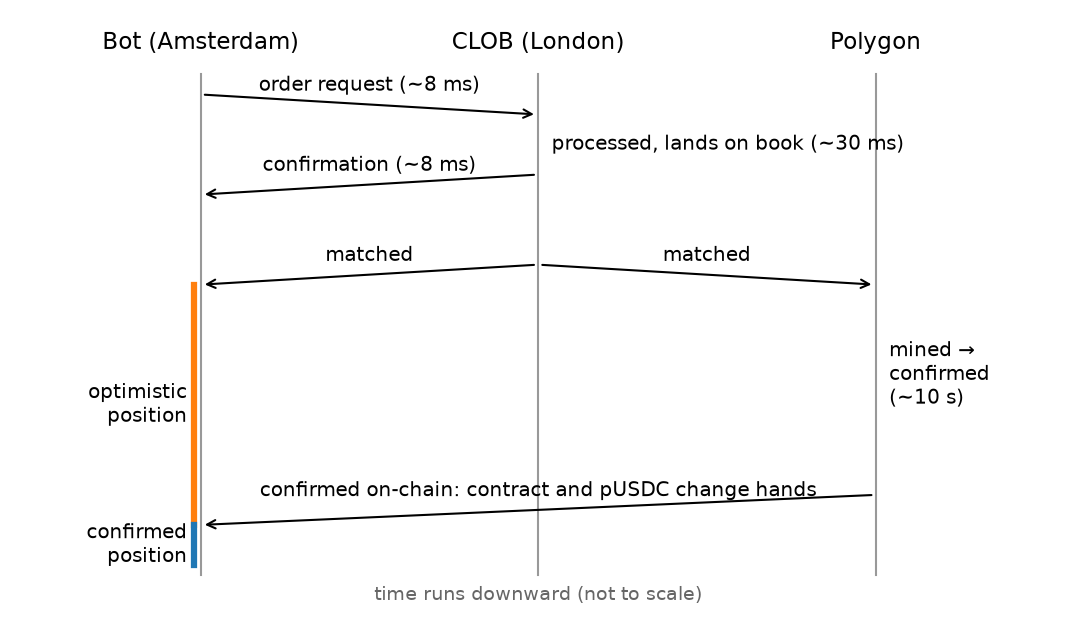
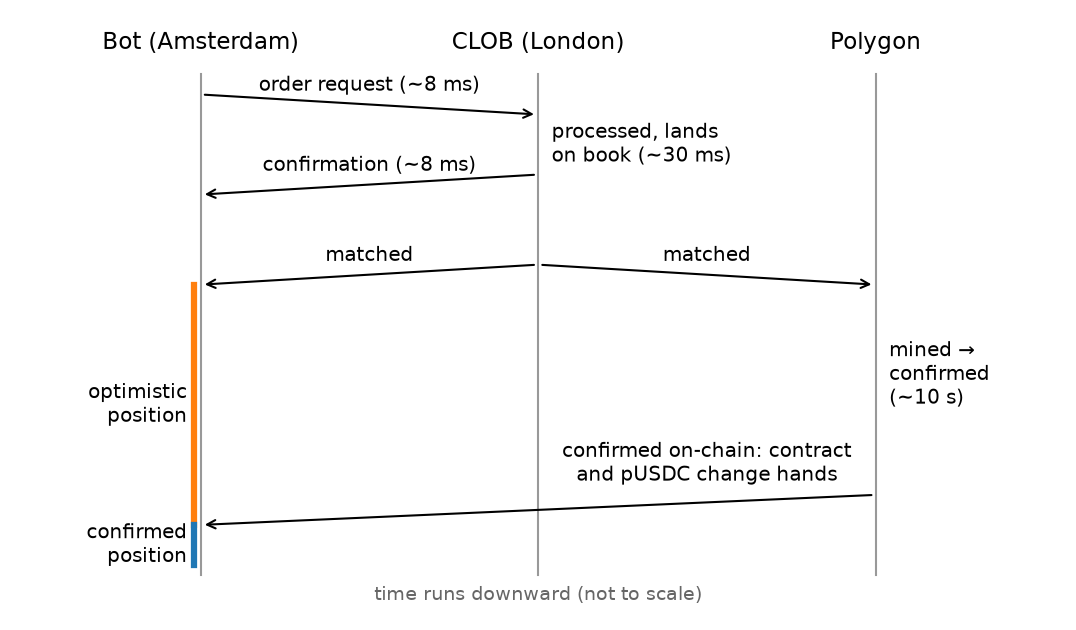
Plain Arial page; add SOC policy plots and SHAP dependence matrix
Drop all styling except bold titles. Add the backward-induction policy
plots (view_policy.py, rendered statically) and the SHAP value vs
feature value matrix for the post-fix model. The live-run chart now
covers the 200-window stretch, with rebates noted in the caption.

Changed region(s): [[0.2454, 0.6937, 0.7974, 0.8143], [0.4907, 0.181, 0.8587, 0.2714]]

diff --git a/market-making/index.html b/market-making/index.html
@@ -4,215 +4,23 @@
 <meta charset="UTF-8">
 <meta name="viewport" content="width=device-width, initial-scale=1.0">
 <title>Building a Market-Making Bot</title>
-<meta name="description" content="The journey of building a market-making bot for Polymarket prediction markets.">
 <link rel="stylesheet" href="https://cdn.jsdelivr.net/npm/katex@0.16.11/dist/katex.min.css">
 <script defer src="https://cdn.jsdelivr.net/npm/katex@0.16.11/dist/katex.min.js"></script>
 <style>
-:root {
-  color-scheme: light;
-  --page: #fcfcfb;
-  --surface: #fcfcfb;
-  --raised: #f4f3ef;
-  --ink: #0b0b0b;
-  --ink-2: #52514e;
-  --muted: #898781;
-  --grid: #e1e0d9;
-  --axis: #c3c2b7;
-  --border: rgba(11, 11, 11, 0.10);
-  --link: #1c5cab;
-  --s1: #2a78d6;
-  --s2: #eb6834;
-  --s3: #1baf7a;
-  --s4: #eda100;
-  --s7: #6250d6;
-  --wash1: rgba(42, 120, 214, 0.10);
-  --wash2: rgba(235, 104, 52, 0.10);
-  --good: #0ca30c;
-  --critical: #d03b3b;
-  --node: #f0efec;
-  --leaf-bid: rgba(42, 120, 214, 0.14);
-  --leaf-ask: rgba(235, 104, 52, 0.14);
-  --leaf-both: rgba(27, 175, 122, 0.16);
-  --leaf-flat: rgba(137, 135, 129, 0.16);
-  --div-b2: #1c5cab; --div-b1: #86b6ef; --div-0: #d6d5cf; --div-r1: #f0a09e; --div-r2: #c9302f; --div-na: #f0efec;
-}
-@media (prefers-color-scheme: dark) {
-  :root:where(:not([data-theme="light"])) {
-    color-scheme: dark;
-    --page: #121211;
-    --surface: #1a1a19;
-    --raised: #222220;
-    --ink: #f0efec;
-    --ink-2: #c3c2b7;
-    --muted: #898781;
-    --grid: #2c2c2a;
-    --axis: #383835;
-    --border: rgba(255, 255, 255, 0.10);
-    --link: #86b6ef;
-    --s1: #3987e5;
-    --s2: #d95926;
-    --s3: #199e70;
-    --s4: #c98500;
-    --s7: #9085e9;
-    --wash1: rgba(57, 135, 229, 0.14);
-    --wash2: rgba(217, 89, 38, 0.14);
-    --node: #2c2c2a;
-    --leaf-bid: rgba(57, 135, 229, 0.22);
-    --leaf-ask: rgba(217, 89, 38, 0.22);
-    --leaf-both: rgba(25, 158, 112, 0.24);
-    --leaf-flat: rgba(137, 135, 129, 0.22);
-    --div-b2: #6da7ec; --div-b1: #24568f; --div-0: #45443f; --div-r1: #8a3434; --div-r2: #e66767; --div-na: #2c2c2a;
-  }
-}
-:root[data-theme="dark"] {
-  color-scheme: dark;
-  --page: #121211; --surface: #1a1a19; --raised: #222220; --ink: #f0efec; --ink-2: #c3c2b7;
-  --muted: #898781; --grid: #2c2c2a; --axis: #383835; --border: rgba(255, 255, 255, 0.10);
-  --link: #86b6ef; --s1: #3987e5; --s2: #d95926; --s3: #199e70; --s4: #c98500; --s7: #9085e9;
-  --wash1: rgba(57, 135, 229, 0.14); --wash2: rgba(217, 89, 38, 0.14); --node: #2c2c2a;
-  --leaf-bid: rgba(57, 135, 229, 0.22); --leaf-ask: rgba(217, 89, 38, 0.22);
-  --leaf-both: rgba(25, 158, 112, 0.24); --leaf-flat: rgba(137, 135, 129, 0.22);
-  --div-b2: #6da7ec; --div-b1: #24568f; --div-0: #45443f; --div-r1: #8a3434; --div-r2: #e66767; --div-na: #2c2c2a;
-}
-
-* { box-sizing: border-box; }
-html { -webkit-text-size-adjust: 100%; }
-body {
-  margin: 0;
-  background: var(--page);
-  color: var(--ink);
-  font: 18px/1.65 Charter, "Bitstream Charter", "Sitka Text", Cambria, Georgia, serif;
-}
-main { max-width: 680px; margin: 0 auto; padding: 32px 16px 96px; }
-.home { font: 14px/1.4 system-ui, -apple-system, "Segoe UI", sans-serif; margin-bottom: 40px; }
-.home a { color: var(--ink-2); text-decoration: none; }
-.home a:hover { color: var(--ink); text-decoration: underline; }
-a { color: var(--link); }
-h2 {
-  font: 600 1.18rem/1.3 system-ui, -apple-system, "Segoe UI", sans-serif;
-  margin: 2.6em 0 0.6em;
-  scroll-margin-top: 16px;
-}
-p { margin: 0 0 1em; }
-p.indent { text-indent: 2em; }
-p.shout { font-size: 1.35rem; font-weight: 600; margin-top: 2em; letter-spacing: 0.01em; overflow-wrap: anywhere; }
-.outline {
-  font: 15px/1.5 system-ui, -apple-system, "Segoe UI", sans-serif;
-  background: var(--raised);
-  border-radius: 8px;
-  padding: 14px 18px 10px;
-  color: var(--ink-2);
-}
-.outline p { margin: 0 0 4px; color: var(--ink); font-weight: 600; }
-.outline ul { margin: 0; padding-left: 1.2em; list-style: "–  "; }
-.outline ul ul { margin: 2px 0 4px; }
-.outline li { margin: 1px 0; }
+body { margin: 0 auto; max-width: 720px; padding: 16px; background: #fff; color: #000; font-family: Arial, Helvetica, sans-serif; font-size: 16px; line-height: 1.5; }
+h2, h3 { font-size: 1em; font-weight: bold; margin: 2em 0 0.5em; }
+.outline p { margin: 0; }
+.outline ul { margin: 0; }
 .outline a { color: inherit; text-decoration: none; }
-.outline a:hover { color: var(--ink); text-decoration: underline; }
-code, pre { font-family: ui-monospace, SFMono-Regular, Menlo, Consolas, monospace; }
-pre.tree-string {
-  font-size: 13px; line-height: 1.55;
-  background: var(--raised); border-radius: 8px; padding: 14px 16px;
-  white-space: pre-wrap; overflow-wrap: anywhere; margin: 0.4em 0 1.2em;
-}
-pre.code {
-  font-size: 13px; line-height: 1.5;
-  background: var(--raised); border-radius: 8px; padding: 14px 16px;
-  overflow-x: auto; margin: 0.4em 0 1.2em;
-}
-
-/* Figures may run wider than the text column on large screens. */
-figure { margin: 2em 0 2.2em; }
-figure.wide { margin-left: calc(50% - min(48vw, 440px)); margin-right: calc(50% - min(48vw, 440px)); }
-figcaption {
-  font: 14px/1.5 system-ui, -apple-system, "Segoe UI", sans-serif;
-  color: var(--ink-2);
-  margin-top: 10px;
-}
-figcaption b { color: var(--ink); font-weight: 600; }
-.fig-img { display: block; max-width: 100%; height: auto; margin: 0 auto 8px; background: #fff; }
-.todo-box { border: 2px dashed var(--critical); color: var(--critical); padding: 24px; font: 14px system-ui, sans-serif; }
-
-/* Charts */
-.chart { position: relative; font: 12px/1.3 system-ui, -apple-system, "Segoe UI", sans-serif; color: var(--ink-2); }
-.chart svg { display: block; width: 100%; height: auto; overflow: visible; }
-.chart .title { font: 600 14px/1.35 system-ui, -apple-system, "Segoe UI", sans-serif; color: var(--ink); margin: 0 0 2px; }
-.chart .sub { font-size: 13px; color: var(--ink-2); margin: 0 0 8px; }
-.chart .legend { display: flex; flex-wrap: wrap; gap: 4px 16px; margin: 0 0 6px; font-size: 13px; color: var(--ink-2); }
-.chart .legend span { display: inline-flex; align-items: center; gap: 6px; }
-.chart .legend i { display: inline-block; width: 14px; height: 2px; border-radius: 1px; }
-.chart .legend i.box { width: 10px; height: 10px; border-radius: 2px; }
-.chart .tick text, .chart text.tick { fill: var(--muted); font-size: 11px; font-variant-numeric: tabular-nums; }
-.chart .axis-label { fill: var(--muted); font-size: 11px; }
-.chart .grid line { stroke: var(--grid); stroke-width: 1; shape-rendering: crispEdges; }
-.chart .baseline { stroke: var(--axis); stroke-width: 1; shape-rendering: crispEdges; }
-.chart .endlabel { fill: var(--ink-2); font-size: 12px; }
-.chart .note { fill: var(--muted); font-size: 11px; }
-.chart .hair { stroke: var(--muted); stroke-width: 1; }
-.chart .tip {
-  position: absolute; pointer-events: none; z-index: 2;
-  background: var(--surface); color: var(--ink);
-  border: 1px solid var(--border); border-radius: 6px;
-  box-shadow: 0 4px 14px rgba(0, 0, 0, 0.12);
-  padding: 7px 9px; font-size: 12px; line-height: 1.45; white-space: nowrap;
-  opacity: 0; transition: opacity 80ms;
-}
-.chart .tip .h { color: var(--ink-2); margin-bottom: 2px; }
-.chart .tip .r { display: flex; align-items: center; gap: 7px; }
-.chart .tip .r i { width: 12px; height: 2px; border-radius: 1px; display: inline-block; }
-.chart .tip .r b { font-weight: 600; font-variant-numeric: tabular-nums; }
-.chart .tip .r span { color: var(--ink-2); }
-.chart rect.bar:hover, .chart rect.bar:focus { opacity: 0.8; outline: none; }
-details.data { font: 13px/1.4 system-ui, -apple-system, "Segoe UI", sans-serif; color: var(--ink-2); margin-top: 6px; }
-details.data summary { cursor: pointer; color: var(--muted); width: max-content; }
-details.data .wrap { max-height: 280px; overflow: auto; margin-top: 6px; border: 1px solid var(--border); border-radius: 6px; }
-details.data table { border-collapse: collapse; width: 100%; font-variant-numeric: tabular-nums; }
-details.data th, details.data td { text-align: right; padding: 3px 10px; border-bottom: 1px solid var(--grid); }
-details.data th:first-child, details.data td:first-child { text-align: left; }
-details.data th { position: sticky; top: 0; background: var(--raised); color: var(--ink); font-weight: 600; }
-.panels { display: grid; grid-template-columns: repeat(auto-fit, minmax(260px, 1fr)); gap: 20px 28px; }
-
-/* Diagrams and trees */
-svg.diagram { display: block; width: 100%; height: auto; font-family: system-ui, -apple-system, "Segoe UI", sans-serif; }
-svg.diagram .ink { fill: var(--ink); }
-svg.diagram .ink2 { fill: var(--ink-2); }
-svg.diagram .muted { fill: var(--muted); }
-svg.diagram .edge { stroke: var(--axis); stroke-width: 1.5; fill: none; }
-svg.diagram .edge-t { stroke: var(--s3); stroke-width: 1.5; fill: none; }
-svg.diagram .edge-f { stroke: var(--muted); stroke-width: 1.5; fill: none; }
-svg.diagram .node { fill: var(--node); }
-svg.diagram .box { fill: var(--surface); stroke: var(--axis); stroke-width: 1; }
-svg.diagram .leaf-BID { fill: var(--leaf-bid); }
-svg.diagram .leaf-ASK { fill: var(--leaf-ask); }
-svg.diagram .leaf-BOTH { fill: var(--leaf-both); }
-svg.diagram .leaf-FLAT, svg.diagram .leaf-WAIT { fill: var(--leaf-flat); }
-svg.diagram .s1 { stroke: var(--s1); } svg.diagram .s2 { stroke: var(--s2); } svg.diagram .s3 { stroke: var(--s3); }
-svg.diagram .f1 { fill: var(--s1); } svg.diagram .f2 { fill: var(--s2); } svg.diagram .f3 { fill: var(--s3); }
-.tree-scroll { max-width: 100%; overflow-x: auto; -webkit-overflow-scrolling: touch; }
-.trees { display: grid; grid-template-columns: 1fr; gap: 28px; justify-items: center; }
-.trees > div { width: 100%; max-width: 640px; min-width: 0; }
-.panels > * { min-width: 0; }
-.trees .t-head { font: 600 13px/1.35 system-ui, -apple-system, "Segoe UI", sans-serif; color: var(--ink); margin-bottom: 4px; }
-.trees .t-sub { font: 12px/1.35 system-ui, -apple-system, "Segoe UI", sans-serif; color: var(--ink-2); margin-bottom: 6px; font-variant-numeric: tabular-nums; }
-.eq { overflow-x: auto; overflow-y: hidden; margin: 0.6em 0; }
-.eq-block { background: var(--raised); border-radius: 8px; padding: 14px 18px 8px; margin: 1em 0 1.6em; }
-.eq-block p, .eq-block li { font: 15px/1.55 system-ui, -apple-system, "Segoe UI", sans-serif; color: var(--ink-2); }
-.eq-block ul { padding-left: 1.1em; margin: 0 0 0.8em; }
-.experiments { margin: 1.2em 0; }
-.experiments ul { padding-left: 1.2em; }
-.experiments li { margin: 0 0 0.55em; }
-.experiments h3 { font: 600 1rem/1.35 system-ui, -apple-system, "Segoe UI", sans-serif; margin: 1.8em 0 0.4em; }
-footer { margin-top: 64px; font: 13px/1.5 system-ui, -apple-system, "Segoe UI", sans-serif; color: var(--muted); }
-@media (max-width: 560px) {
-  body { font-size: 17px; }
-  figure.wide { margin-left: 0; margin-right: 0; }
-}
+p.indent { text-indent: 2em; }
+pre { white-space: pre-wrap; overflow-wrap: anywhere; font-size: 13px; }
+figure { margin: 1.5em 0; }
+figure img { display: block; max-width: 100%; height: auto; margin: 0 auto 0.5em; }
+.eq { overflow-x: auto; overflow-y: hidden; }
 </style>
 </head>
 <body>
-<main>
-<nav class="home"><a href="/">← Joseph Iannone</a></nav>
-<article>
+<nav class="home"><a href="/">Joseph Iannone</a></nav>
 <nav class="outline" aria-label="Contents"><p>History:</p><ul>
 <li><a href="#market-making-theory">Market-Making Theory; AV, GLFT</a></li>
 <li><a href="#the-life-of-an-order">The life of an order</a></li>
@@ -275,6 +83,13 @@ footer { margin-top: 64px; font: 13px/1.5 system-ui, -apple-system, "Segoe UI", 
 
 <p>Following the literature for market-making strategies for discrete markets, quickly brings us to an area of mathematics called Stochastic Optimal Control. This tries to answer how to make optimal decisions under unpredictable conditions. Basically, this will output an action based on a handful of inputs (external factors like order intensities and spread, and internal factors like current position). The external factors are modeled as a markov process, where one combination of market states has a given probability of jumping to another combination of market states. Given these probabilities, and the current position, the <em>potential future value</em> of each decision can be calculated through a process called backward induction. In this case, a decision is which orders should be placed (buy or sell) and how many ticks away from the mid price they should be placed. If there’s a low rate of buy market orders coming into the clob, and the position is very positive, the best decision would most likely be to place a sell order very close to the mid, as there is much urgency to offload inventory in order to keep the bot delta neutral.</p>
 
+<figure>
+<img class="fig-img" src="figs/soc_policy.png" alt="Stochastic optimal control policy" loading="lazy">
+<img class="fig-img" src="figs/soc_policy_drift.png" alt="Stochastic optimal control policy" loading="lazy">
+<figcaption>Optimal policy from backward induction at the start of the session, by inventory and alpha state (0 is the most bearish of the seven states, 6 the most bullish). Top: the policy notebook's model. Bottom: the version with the alpha drift term (inventory penalty 0.05, chosen for illustration because the tuned value was not saved).</figcaption>
+</figure>
+
+
 <h2 id="incorporating-alpha">Incorporating Alpha </h2>
 
 <p>Exclusiving trying to capture the spread without any type of directional signal will never be profitable in a prediction market because you will always get filled by market participants who are working off of more information than you. This information could be related to the fair value of the asset for example. Maybe they have a fiber optic cable that pumps information about the Binance bitcoin market in Tokyo to a cloud server in Amsterdam (doing this they’ll be able to get information 60ms stale compared to 120ms stale using normal internet infrastructure). They’ll be able to calculate the exact fair value and update their quotes 8ms later, or they might have co-location with polymarkets clob (which is allowed now through their know-your-customer policy) allowing them to react to the state of the market in under a couple milliseconds. So to have the best chance here, we can assume that the clob is updated as quickly as information becomes available, this means that it will be best if we don’t even look at any external sources of information. For example if we worked off of the binance data only, we would be 60ms behind the fastest market makers (since they are reacting to their information in 60ms compared to our 120ms). If we worked off of the clob exclusively we can react within 16ms (8ms to our server and 8ms to the clob, plus any lag internal to polymarket’s own infrastructure). So, we need to create a model that takes in features of the market and predicts where it will go soon after.</p>
@@ -282,8 +97,9 @@ footer { margin-top: 64px; font: 13px/1.5 system-ui, -apple-system, "Segoe UI", 
 <p class="indent">It took a lot of trial and error to get the most useful model possible. As the model coincides with the execution logic and there is a lot of feature engineering. But here we can just start with a simple model that estimates the change in price in one second. There are hundreds of features that could be potentially useful for the model. I started with features explored in <strong>this paper. </strong>From the shap plots, we can see that overwhelmingly, the most important features are variations of order-flow-imbalance. We also want to choose our loss function carefully, as there are different consequences to different types of wrong predictions. For example, if the model thinks the market will go up, but it actually goes down, it should be punished much more than if the market ends up staying flat as losses could be much greater. So instead of using OLS we could use GMADL (Generalized Mean Absolute Directional Loss), which punishes the model more harshly depending on direction and magnitude of the prediction.</p>
 
 <figure>
-<img class="fig-img" src="figs/shap.png" alt="SHAP summary plot" loading="lazy">
-<figcaption>SHAP summary for one of the production direction models (best bid, 5-minute markets, 30-150 ms ahead), trained after the trade-data fix and scored on 11,000 holdout rows it never saw.</figcaption>
+<img class="fig-img" src="figs/shap.png" alt="SHAP summary and dependence plots" loading="lazy">
+<img class="fig-img" src="figs/shap_matrix.png" alt="SHAP summary and dependence plots" loading="lazy">
+<figcaption>SHAP summary for one of the production direction models (best bid, 5-minute markets, 30-150 ms ahead), trained after the trade-data fix and scored on 11,000 holdout rows it never saw. Below: SHAP value against feature value for the top 15 features.</figcaption>
 </figure>
 
 
@@ -397,7 +213,7 @@ footer { margin-top: 64px; font: 13px/1.5 system-ui, -apple-system, "Segoe UI", 
 
 <figure>
 <img class="fig-img" src="figs/live_run.png" alt="Live equity curve" loading="lazy">
-<figcaption>Third live test, 244 five-minute windows (UTC). The gap is a rate-limit halt and restart. The 200 windows compared against the backtest made $60.99.</figcaption>
+<figcaption>Third live test: 200 five-minute windows from Sep 6 01:25 to Sep 7 00:25 UTC (the gap is a rate-limit halt and restart). Wallet PnL was $60.99; maker rebates, paid out the next day, add about $4.6 (as modelled by the bot), for about $66 in total.</figcaption>
 </figure>
 
 
@@ -430,8 +246,6 @@ footer { margin-top: 64px; font: 13px/1.5 system-ui, -apple-system, "Segoe UI", 
 </ul>
 </div>
 
-</article>
-</main>
 <script>
 document.addEventListener("DOMContentLoaded", () => {
   if (window.katex) {
